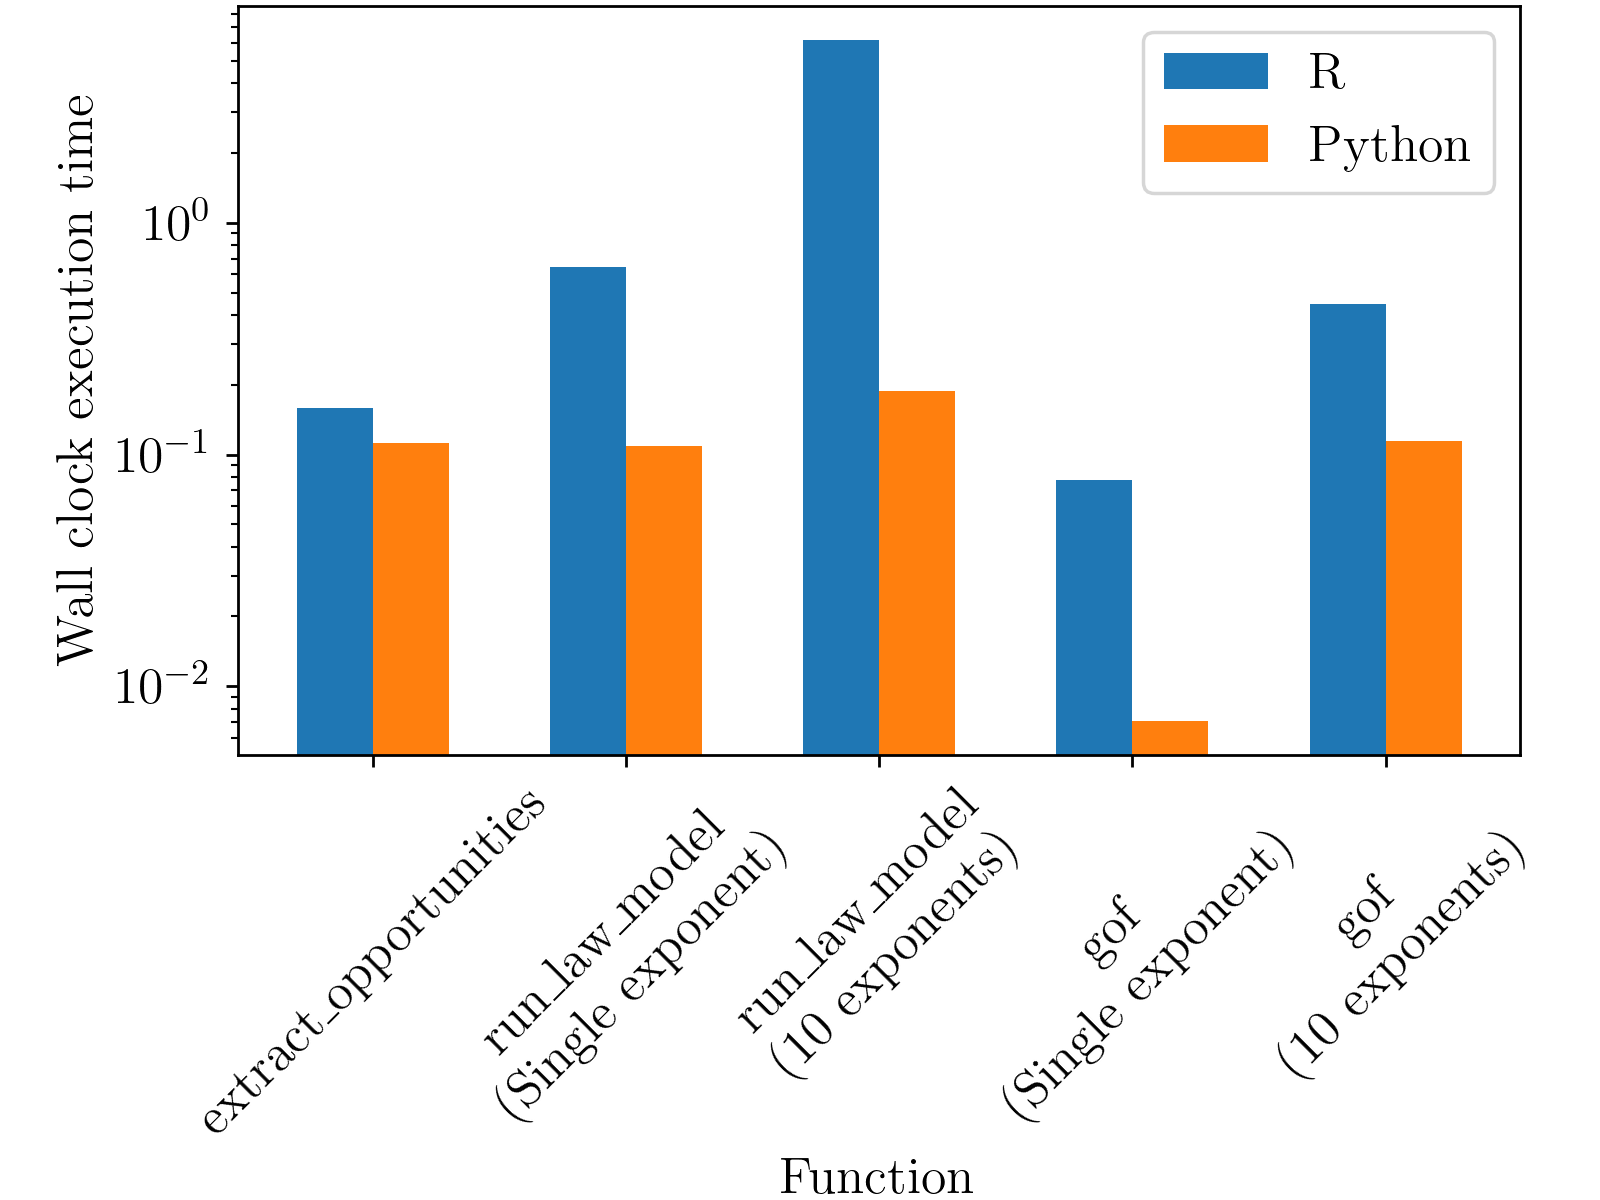
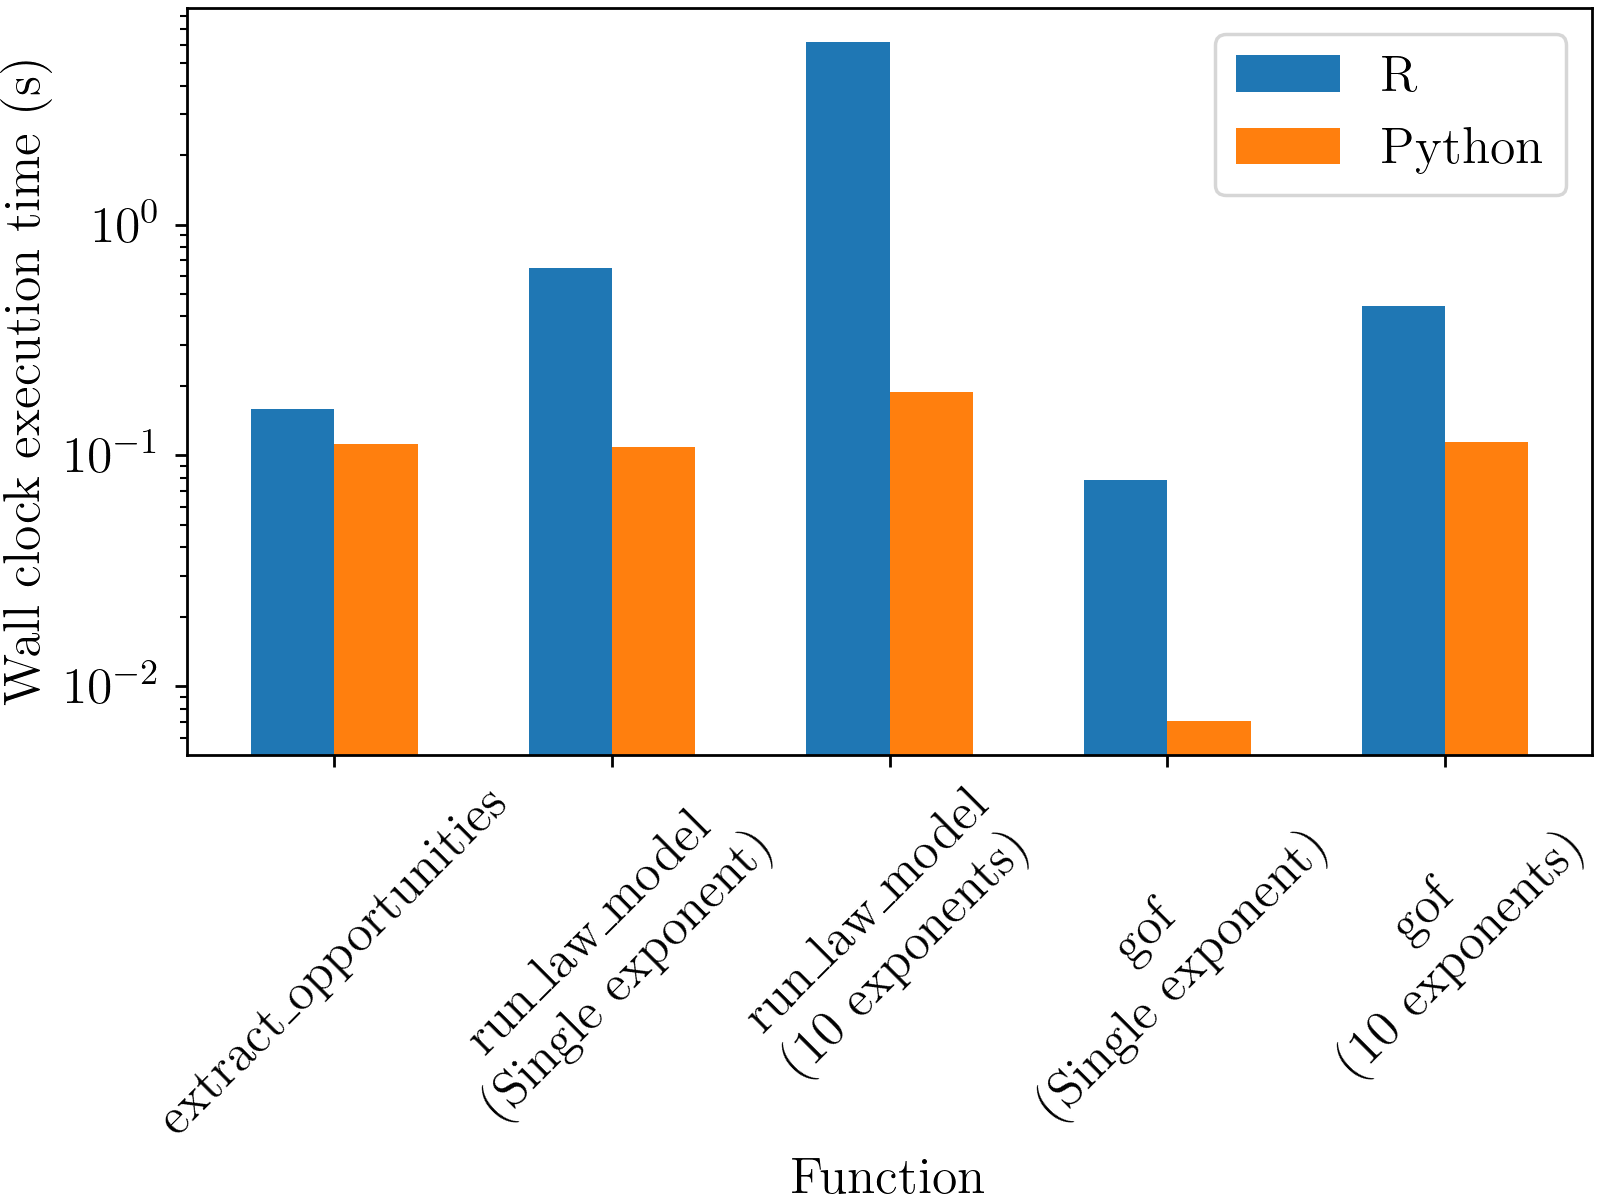
Update paper and fig2

diff --git a/paper.md b/paper.md
@@ -54,10 +54,10 @@ The **PyTDLM** package responds to the need for a Python-native implementation t
 The package creates a pipeline for generating and validating OD matrices:
 
 * **`run_law_model_gof`**
-  A new high-level function introduced in the Python version, designed for efficiency. It computes mobility flows and goodness-of-fit metrics in a single stepBy computing goodness-of-fit metrics on the fly without persisting intermediate simulated matrices, it significantly reduces memory overhead compared to the traditional stepwise approach. When several exponents are provided, computations are automatically dispatched to multiple threads.
+  A new high-level function introduced in the Python version, designed for efficiency. It computes mobility flows and goodness-of-fit metrics in a single step. By computing goodness-of-fit metrics on the fly without persisting intermediate simulated matrices, it significantly reduces memory overhead compared to the traditional stepwise approach. When several exponents are provided, computations are automatically dispatched to multiple threads.
 
 * **`run_optimization`** 
-  A major addition to the Python port, this function automates parameter calibration. This function wraps `scipy.optimize.minimize_scalar` to determine the exponent that best maximizes or minimizes a selected goodness-of-fit measure. When multiple realizations are required, the function parallelizes the computation of realizations and passes averaged metrics to the optimizer.
+  A major addition to the Python port, this function automates parameter calibration. This function wraps `scipy.optimize.minimize_scalar` to determine the exponent that best maximizes or minimizes a selected goodness-of-fit measure. When multiple realizations are requested, the function parallelizes the computation of realizations and passes averaged metrics to the optimizer.
 
 * **Core Components (`run_law`, `run_model`, `run_law_model`)**: These functions provide granular access to the two-step generation process and now also supports multi-exponent parallelization:
     * `run_law`: Computes probability matrices based on spatial distribution laws (four variations of Gravity, three Intervening Opportunities, and Uniform).
@@ -80,7 +80,7 @@ To validate the Python implementation, we performed a systematic comparison agai
 **Performance**
 We benchmarked the wall-clock execution time of both packages using the example based on commuting data from Kansas in the United States in 2000. Tests were conducted on an Ubuntu 24.03.1 system equipped with a 2024 18-thread \@4.6GHz CPU. As shown in Figure 2, PyTDLM demonstrates competitive performance, benefiting from vectorization and effective parallelization strategies.
 
-![Comparison of R TDLM vs PyTDLM wall clock execution time. Measurements were averaged over 100 executions of each function. `run_law_model` was run with the following parameters: `law="NGravExp", model="DCM", repli=10, return_proba=True`](runtime.png){ width=50% }
+![Comparison of R TDLM vs PyTDLM wall clock execution time, in seconds. Measurements were averaged over 100 executions of each function. `run_law_model` was run with the following parameters: `law="NGravExp", model="DCM", repli=10, return_proba=True`](runtime.png){ width=50% }
 
 
 # Acknowledgements
